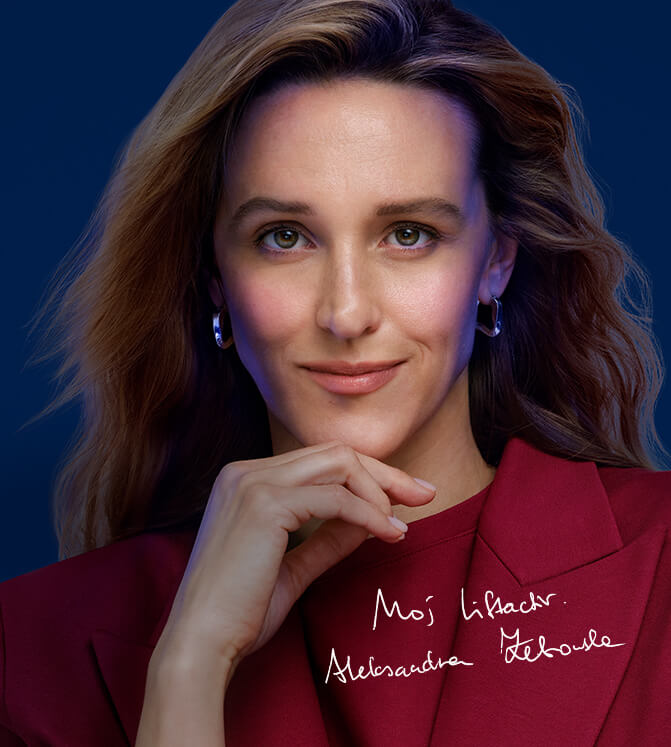
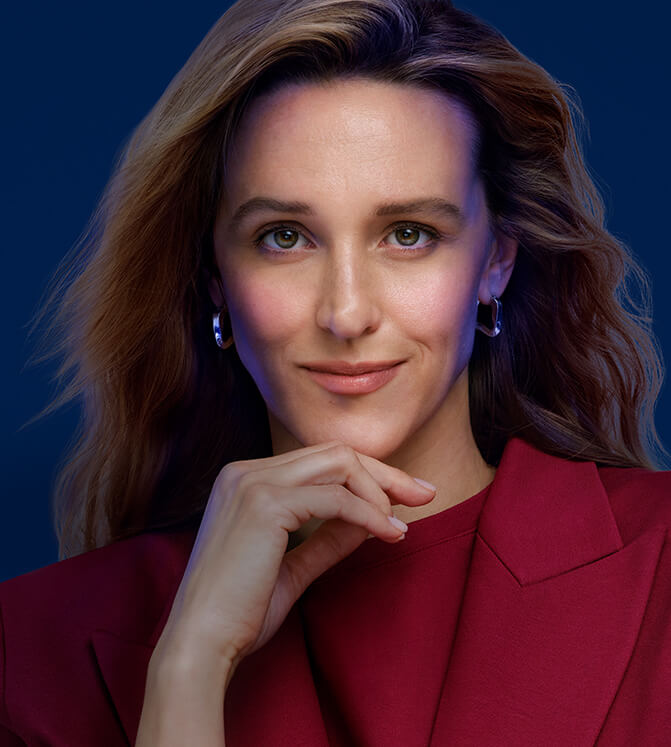
feat: make sign separate img

Changed region(s): [[0.6855, 0.7697, 0.924, 0.8929], [0.4769, 0.8621, 0.6855, 0.9237], [0.5365, 0.8005, 0.6557, 0.8313]]

diff --git a/style.scss b/style.scss
@@ -151,6 +151,7 @@ body {
       margin-left: -8px;
     }
     &__content {
+      position: relative;
       display: flex;
       flex-direction: column;
       align-items: flex-start;
@@ -161,6 +162,13 @@ body {
       align-items: flex-start;
       min-height: 420px;
       padding-bottom: 30px;
+    }
+    &__img-sign {
+      position: absolute;
+      right: 3%;
+      bottom: 8%;
+      width: 46%;
+      max-width: 100%;
     }
     &__title {
       @include text;

diff --git a/style.css b/style.css
@@ -145,6 +145,7 @@ body {
   margin-left: -8px;
 }
 #es-vichy.es-vichy .es-kv__content {
+  position: relative;
   display: flex;
   flex-direction: column;
   align-items: flex-start;
@@ -155,6 +156,13 @@ body {
   align-items: flex-start;
   min-height: 420px;
   padding-bottom: 30px;
+}
+#es-vichy.es-vichy .es-kv__img-sign {
+  position: absolute;
+  right: 3%;
+  bottom: 8%;
+  width: 46%;
+  max-width: 100%;
 }
 #es-vichy.es-vichy .es-kv__title {
   margin: 0;

diff --git a/index.html b/index.html
@@ -62,6 +62,7 @@
               BEZ PRZEBARWIEŃ<br />
               NOC PO NOCY<sup>2</sup>
             </p>
+            <img class="es-kv__img-sign" src="images/sign.png" alt="" />
           </div>
         </div>
       </section>
